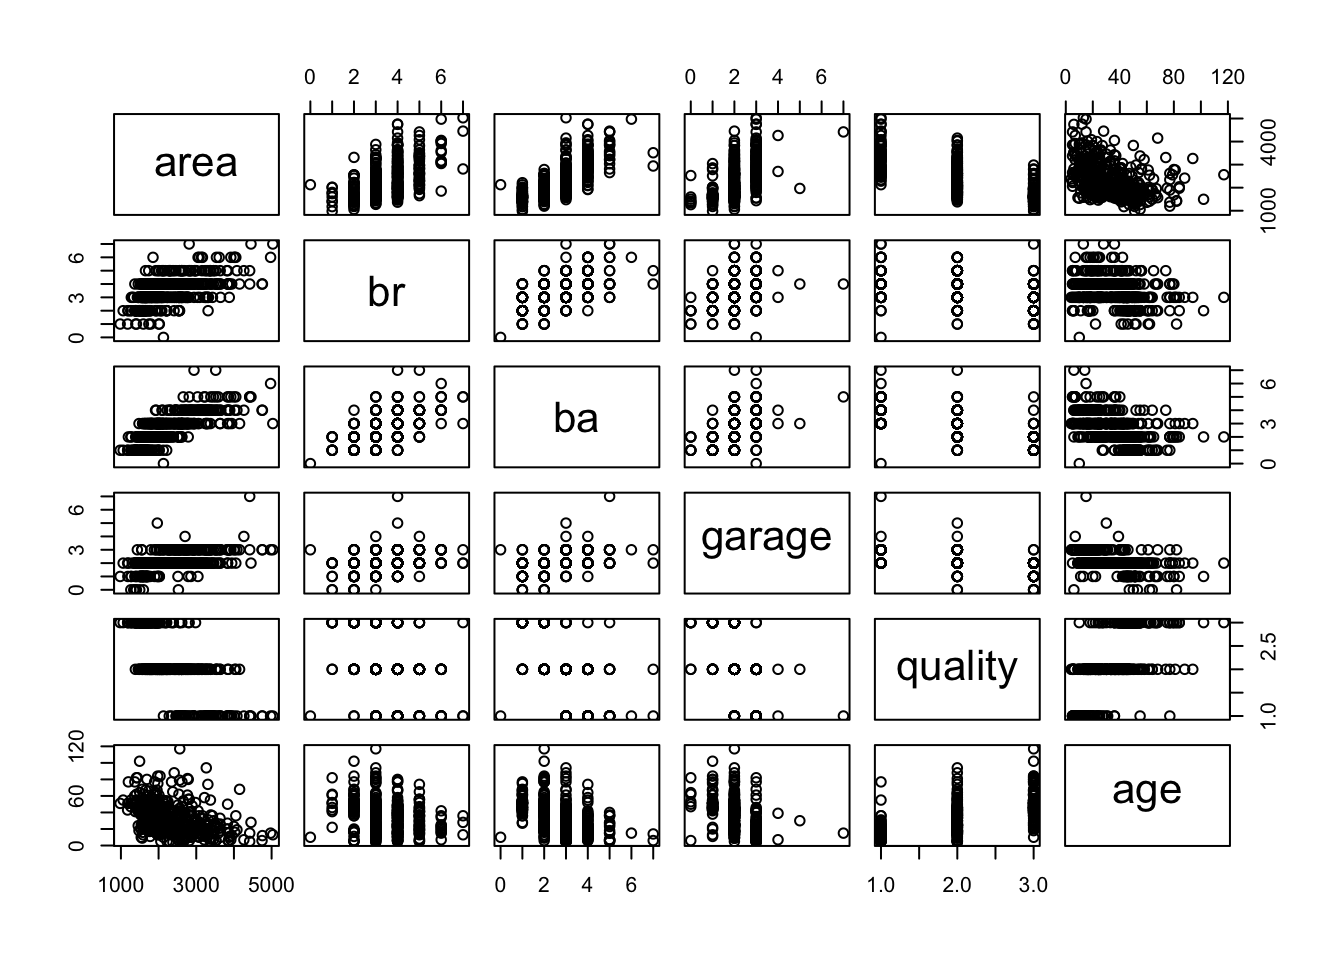
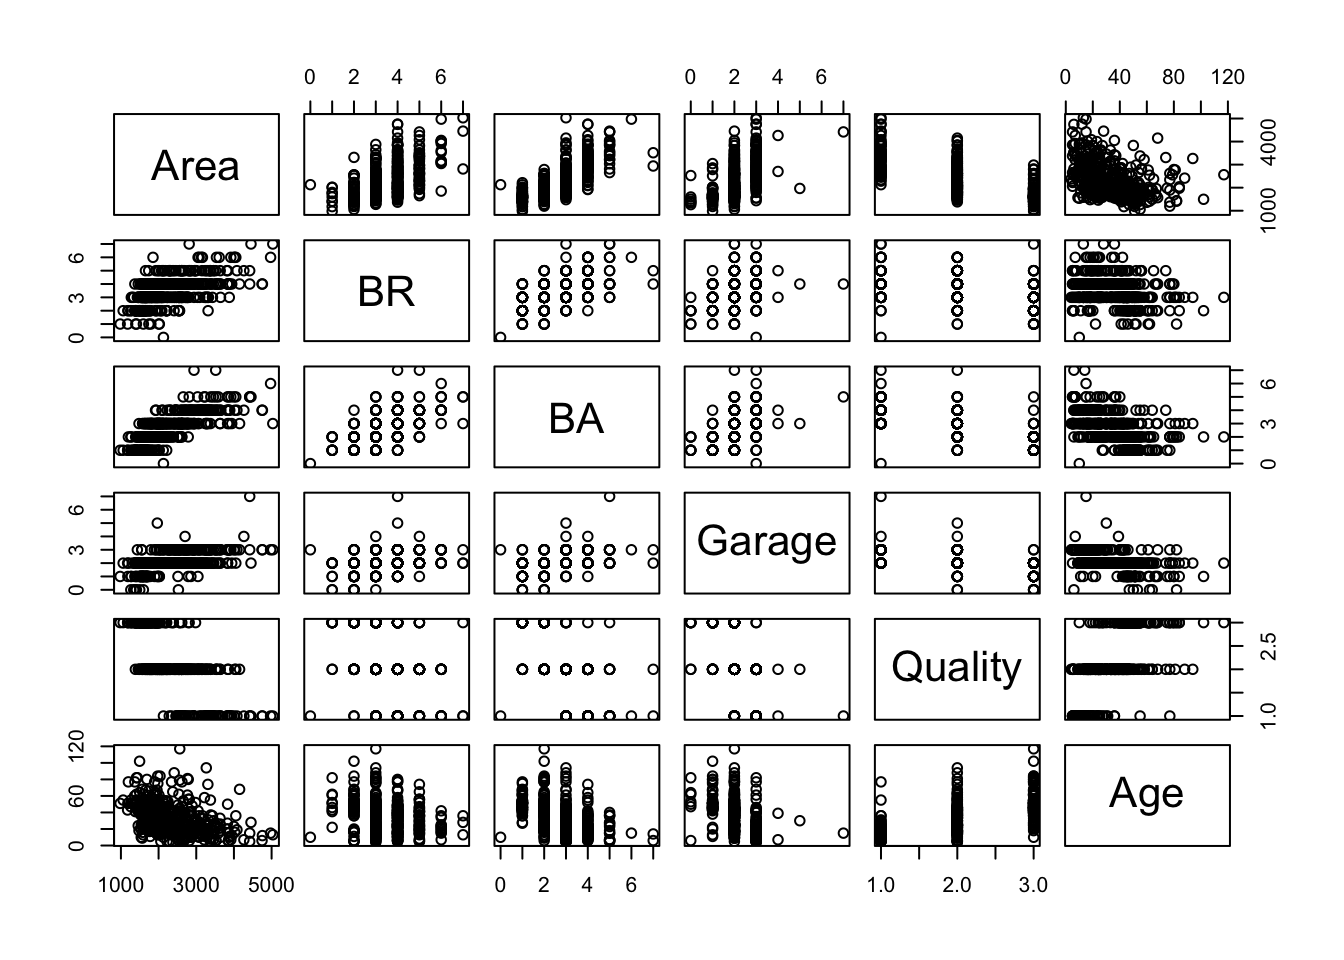
lots of progress on c2

diff --git a/part_c.html b/part_c.html
@@ -69,6 +69,8 @@ pre > code.sourceCode > span > a:first-child::before { text-decoration: underlin
 <link href="part_c_files/libs/bootstrap/bootstrap-icons.css" rel="stylesheet">
 <link href="part_c_files/libs/bootstrap/bootstrap.min.css" rel="stylesheet" id="quarto-bootstrap" data-mode="light">
 
+  <script src="https://polyfill.io/v3/polyfill.min.js?features=es6"></script>
+  <script src="https://cdn.jsdelivr.net/npm/mathjax@3/es5/tex-chtml-full.js" type="text/javascript"></script>
 
 </head>
 
@@ -102,21 +104,26 @@ pre > code.sourceCode > span > a:first-child::before { text-decoration: underlin
 </header>
 
 <div class="cell">
-<div class="sourceCode cell-code" id="cb1"><pre class="sourceCode r code-with-copy"><code class="sourceCode r"><span id="cb1-1"><a href="#cb1-1" aria-hidden="true" tabindex="-1"></a>cincy <span class="ot">&lt;-</span> <span class="fu">read_csv</span>(<span class="fu">here</span>(<span class="st">"data"</span>, <span class="st">"cincy.csv"</span>)) <span class="sc">|&gt;</span> <span class="fu">clean_names</span>()</span></code><button title="Copy to Clipboard" class="code-copy-button"><i class="bi"></i></button></pre></div>
+<div class="sourceCode cell-code" id="cb1"><pre class="sourceCode r code-with-copy"><code class="sourceCode r"><span id="cb1-1"><a href="#cb1-1" aria-hidden="true" tabindex="-1"></a><span class="co"># Echo TRUE for this whole file. The final document will be echo FALSE, then include code at the bottom (section E)</span></span>
+<span id="cb1-2"><a href="#cb1-2" aria-hidden="true" tabindex="-1"></a><span class="fu">library</span>(tidyverse)</span>
+<span id="cb1-3"><a href="#cb1-3" aria-hidden="true" tabindex="-1"></a><span class="fu">library</span>(here)</span>
+<span id="cb1-4"><a href="#cb1-4" aria-hidden="true" tabindex="-1"></a><span class="fu">library</span>(janitor)</span>
+<span id="cb1-5"><a href="#cb1-5" aria-hidden="true" tabindex="-1"></a><span class="fu">library</span>(knitr)</span>
+<span id="cb1-6"><a href="#cb1-6" aria-hidden="true" tabindex="-1"></a><span class="fu">source</span>(<span class="fu">here</span>(<span class="st">"all_custom_functions.R"</span>))</span></code><button title="Copy to Clipboard" class="code-copy-button"><i class="bi"></i></button></pre></div>
+</div>
+<div class="cell">
+<div class="sourceCode cell-code" id="cb2"><pre class="sourceCode r code-with-copy"><code class="sourceCode r"><span id="cb2-1"><a href="#cb2-1" aria-hidden="true" tabindex="-1"></a>cincy <span class="ot">&lt;-</span> <span class="fu">read_csv</span>(<span class="fu">here</span>(<span class="st">"data"</span>, <span class="st">"cincy.csv"</span>)) <span class="sc">|&gt;</span></span>
+<span id="cb2-2"><a href="#cb2-2" aria-hidden="true" tabindex="-1"></a>  <span class="fu">rename</span>(</span>
+<span id="cb2-3"><a href="#cb2-3" aria-hidden="true" tabindex="-1"></a>    <span class="at">Pricerank =</span> PRICERANK,</span>
+<span id="cb2-4"><a href="#cb2-4" aria-hidden="true" tabindex="-1"></a>    <span class="at">Age =</span> AGE</span>
+<span id="cb2-5"><a href="#cb2-5" aria-hidden="true" tabindex="-1"></a>  )</span></code><button title="Copy to Clipboard" class="code-copy-button"><i class="bi"></i></button></pre></div>
 </div>
 <section id="discriminant-and-classification-analysis" class="level2">
 <h2 class="anchored" data-anchor-id="discriminant-and-classification-analysis">Discriminant and Classification Analysis</h2>
 <section id="correlated-quantitative-variables" class="level3">
 <h3 class="anchored" data-anchor-id="correlated-quantitative-variables">Correlated Quantitative Variables</h3>
 <div class="cell">
-<div class="sourceCode cell-code" id="cb2"><pre class="sourceCode r code-with-copy"><code class="sourceCode r"><span id="cb2-1"><a href="#cb2-1" aria-hidden="true" tabindex="-1"></a><span class="fu">kable</span>(<span class="fu">cor</span>(cincy <span class="sc">|&gt;</span> <span class="fu">select</span>(<span class="sc">-</span>pricerank)),</span>
-<span id="cb2-2"><a href="#cb2-2" aria-hidden="true" tabindex="-1"></a>      <span class="at">col.names =</span> <span class="fu">c</span>(<span class="st">"Area"</span>,</span>
-<span id="cb2-3"><a href="#cb2-3" aria-hidden="true" tabindex="-1"></a>                    <span class="st">"Bedrooms"</span>,</span>
-<span id="cb2-4"><a href="#cb2-4" aria-hidden="true" tabindex="-1"></a>                    <span class="st">"Bathrooms"</span>,</span>
-<span id="cb2-5"><a href="#cb2-5" aria-hidden="true" tabindex="-1"></a>                    <span class="st">"Garage"</span>,</span>
-<span id="cb2-6"><a href="#cb2-6" aria-hidden="true" tabindex="-1"></a>                    <span class="st">"Quality"</span>,</span>
-<span id="cb2-7"><a href="#cb2-7" aria-hidden="true" tabindex="-1"></a>                    <span class="st">"Age"</span></span>
-<span id="cb2-8"><a href="#cb2-8" aria-hidden="true" tabindex="-1"></a>                    ))</span></code><button title="Copy to Clipboard" class="code-copy-button"><i class="bi"></i></button></pre></div>
+<div class="sourceCode cell-code" id="cb3"><pre class="sourceCode r code-with-copy"><code class="sourceCode r"><span id="cb3-1"><a href="#cb3-1" aria-hidden="true" tabindex="-1"></a><span class="fu">kable</span>(<span class="fu">cor</span>(cincy <span class="sc">|&gt;</span> <span class="fu">select</span>(<span class="sc">-</span>Pricerank)))</span></code><button title="Copy to Clipboard" class="code-copy-button"><i class="bi"></i></button></pre></div>
 <div class="cell-output-display">
 <table class="table table-sm table-striped small">
 <colgroup>
@@ -132,8 +139,8 @@ pre > code.sourceCode > span > a:first-child::before { text-decoration: underlin
 <tr class="header">
 <th style="text-align: left;"></th>
 <th style="text-align: right;">Area</th>
-<th style="text-align: right;">Bedrooms</th>
-<th style="text-align: right;">Bathrooms</th>
+<th style="text-align: right;">BR</th>
+<th style="text-align: right;">BA</th>
 <th style="text-align: right;">Garage</th>
 <th style="text-align: right;">Quality</th>
 <th style="text-align: right;">Age</th>
@@ -141,7 +148,7 @@ pre > code.sourceCode > span > a:first-child::before { text-decoration: underlin
 </thead>
 <tbody>
 <tr class="odd">
-<td style="text-align: left;">area</td>
+<td style="text-align: left;">Area</td>
 <td style="text-align: right;">1.0000000</td>
 <td style="text-align: right;">0.5578378</td>
 <td style="text-align: right;">0.7552729</td>
@@ -150,7 +157,7 @@ pre > code.sourceCode > span > a:first-child::before { text-decoration: underlin
 <td style="text-align: right;">-0.4411967</td>
 </tr>
 <tr class="even">
-<td style="text-align: left;">br</td>
+<td style="text-align: left;">BR</td>
 <td style="text-align: right;">0.5578378</td>
 <td style="text-align: right;">1.0000000</td>
 <td style="text-align: right;">0.5834469</td>
@@ -159,7 +166,7 @@ pre > code.sourceCode > span > a:first-child::before { text-decoration: underlin
 <td style="text-align: right;">-0.2686924</td>
 </tr>
 <tr class="odd">
-<td style="text-align: left;">ba</td>
+<td style="text-align: left;">BA</td>
 <td style="text-align: right;">0.7552729</td>
 <td style="text-align: right;">0.5834469</td>
 <td style="text-align: right;">1.0000000</td>
@@ -168,7 +175,7 @@ pre > code.sourceCode > span > a:first-child::before { text-decoration: underlin
 <td style="text-align: right;">-0.5128410</td>
 </tr>
 <tr class="even">
-<td style="text-align: left;">garage</td>
+<td style="text-align: left;">Garage</td>
 <td style="text-align: right;">0.5337665</td>
 <td style="text-align: right;">0.3168137</td>
 <td style="text-align: right;">0.4898981</td>
@@ -177,7 +184,7 @@ pre > code.sourceCode > span > a:first-child::before { text-decoration: underlin
 <td style="text-align: right;">-0.4617604</td>
 </tr>
 <tr class="odd">
-<td style="text-align: left;">quality</td>
+<td style="text-align: left;">Quality</td>
 <td style="text-align: right;">-0.6955529</td>
 <td style="text-align: right;">-0.3783218</td>
 <td style="text-align: right;">-0.6822149</td>
@@ -186,7 +193,7 @@ pre > code.sourceCode > span > a:first-child::before { text-decoration: underlin
 <td style="text-align: right;">0.6175260</td>
 </tr>
 <tr class="even">
-<td style="text-align: left;">age</td>
+<td style="text-align: left;">Age</td>
 <td style="text-align: right;">-0.4411967</td>
 <td style="text-align: right;">-0.2686924</td>
 <td style="text-align: right;">-0.5128410</td>
@@ -199,31 +206,19 @@ pre > code.sourceCode > span > a:first-child::before { text-decoration: underlin
 </div>
 </div>
 <div class="cell">
-<div class="sourceCode cell-code" id="cb3"><pre class="sourceCode r code-with-copy"><code class="sourceCode r"><span id="cb3-1"><a href="#cb3-1" aria-hidden="true" tabindex="-1"></a><span class="fu">plot</span>(cincy[,<span class="dv">2</span><span class="sc">:</span><span class="dv">7</span>])</span></code><button title="Copy to Clipboard" class="code-copy-button"><i class="bi"></i></button></pre></div>
+<div class="sourceCode cell-code" id="cb4"><pre class="sourceCode r code-with-copy"><code class="sourceCode r"><span id="cb4-1"><a href="#cb4-1" aria-hidden="true" tabindex="-1"></a><span class="fu">plot</span>(cincy[,<span class="dv">2</span><span class="sc">:</span><span class="dv">7</span>])</span></code><button title="Copy to Clipboard" class="code-copy-button"><i class="bi"></i></button></pre></div>
 <div class="cell-output-display">
 <p><img src="part_c_files/figure-html/unnamed-chunk-2-1.png" class="img-fluid" width="672"></p>
 </div>
 </div>
-<p>It appears that quality and area, along with bathroom and area have the highest correlations. These may be omitted from analysis.</p>
-<!-- Flagged by Jett. Above needs better justification and should also cite the correlations -->
+<p>We will consider correlations above |0.80| to be strong. Provided that no correlations exceed this threshold, we will proceed with all six variables.</p>
 </section>
 <section id="discriminant-analysis" class="level3">
 <h3 class="anchored" data-anchor-id="discriminant-analysis">Discriminant Analysis</h3>
 <div class="cell">
-<div class="sourceCode cell-code" id="cb4"><pre class="sourceCode r code-with-copy"><code class="sourceCode r"><span id="cb4-1"><a href="#cb4-1" aria-hidden="true" tabindex="-1"></a><span class="co"># First remove whatever variables had multicollinearity above</span></span>
-<span id="cb4-2"><a href="#cb4-2" aria-hidden="true" tabindex="-1"></a><span class="fu">discrim</span>(cincy[,<span class="sc">-</span><span class="dv">1</span>], cincy<span class="sc">$</span>pricerank)</span></code><button title="Copy to Clipboard" class="code-copy-button"><i class="bi"></i></button></pre></div>
+<div class="sourceCode cell-code" id="cb5"><pre class="sourceCode r code-with-copy"><code class="sourceCode r"><span id="cb5-1"><a href="#cb5-1" aria-hidden="true" tabindex="-1"></a><span class="fu">discrim</span>(cincy[,<span class="sc">-</span><span class="dv">1</span>], cincy<span class="sc">$</span>Pricerank)<span class="sc">$</span>a.stand</span></code><button title="Copy to Clipboard" class="code-copy-button"><i class="bi"></i></button></pre></div>
 <div class="cell-output cell-output-stdout">
-<pre><code>$a
-             [,1]         [,2]
-[1,]  0.001573498 -0.001218949
-[2,]  0.054759519  0.496380218
-[3,]  0.445335726  0.116049854
-[4,]  0.202372734 -0.018524554
-[5,] -0.870344316 -0.860100255
-[6,] -0.014868054  0.004692251
-
-$a.stand
-            [,1]        [,2]
+<pre><code>            [,1]        [,2]
 [1,]  0.70478207 -0.54597681
 [2,]  0.04815262  0.43649046
 [3,]  0.33024101  0.08605737
@@ -232,6 +227,140 @@ $a.stand
 [6,] -0.22310228  0.07040947</code></pre>
 </div>
 </div>
+<p><span class="math display">\[
+Z_1 = 0.705(y_1) + 0.048(y_2) + 0.330(y_3) + 0.113(y_4) - 0.390(y_5) - 0.223(y_6)
+\]</span></p>
+<p><span class="math display">\[
+Z_2 = -0.546(y_1) + 0.436(y_2) + 0.086(y_3) - 0.010(y_4) - 0.385(y_5) + 0.070(y_6)
+\]</span></p>
+<div class="cell">
+<div class="sourceCode cell-code" id="cb7"><pre class="sourceCode r code-with-copy"><code class="sourceCode r"><span id="cb7-1"><a href="#cb7-1" aria-hidden="true" tabindex="-1"></a><span class="fu">kable</span>(<span class="fu">data.frame</span>(<span class="at">Variable =</span> <span class="fu">c</span>(<span class="st">"y1"</span>, <span class="st">"y5"</span>, <span class="st">"y3"</span>, <span class="st">"y6"</span>, <span class="st">"y4"</span>, <span class="st">"y2"</span>),</span>
+<span id="cb7-2"><a href="#cb7-2" aria-hidden="true" tabindex="-1"></a>                 <span class="at">Z1 =</span> <span class="fu">c</span>(<span class="fl">0.70478207</span>,</span>
+<span id="cb7-3"><a href="#cb7-3" aria-hidden="true" tabindex="-1"></a>                        <span class="sc">-</span><span class="fl">0.38983060</span>,</span>
+<span id="cb7-4"><a href="#cb7-4" aria-hidden="true" tabindex="-1"></a>                        <span class="fl">0.33024101</span>,</span>
+<span id="cb7-5"><a href="#cb7-5" aria-hidden="true" tabindex="-1"></a>                        <span class="sc">-</span><span class="fl">0.22310228</span>,</span>
+<span id="cb7-6"><a href="#cb7-6" aria-hidden="true" tabindex="-1"></a>                        <span class="fl">0.11313689</span>,</span>
+<span id="cb7-7"><a href="#cb7-7" aria-hidden="true" tabindex="-1"></a>                        <span class="fl">0.04815262</span>)),</span>
+<span id="cb7-8"><a href="#cb7-8" aria-hidden="true" tabindex="-1"></a>      <span class="at">digits =</span> <span class="dv">3</span>,</span>
+<span id="cb7-9"><a href="#cb7-9" aria-hidden="true" tabindex="-1"></a>      <span class="at">col.names =</span> <span class="fu">c</span>(<span class="st">"Variable"</span>, <span class="st">"Z1"</span>))</span></code><button title="Copy to Clipboard" class="code-copy-button"><i class="bi"></i></button></pre></div>
+<div class="cell-output-display">
+<table class="table table-sm table-striped small">
+<thead>
+<tr class="header">
+<th style="text-align: left;">Variable</th>
+<th style="text-align: right;">Z1</th>
+</tr>
+</thead>
+<tbody>
+<tr class="odd">
+<td style="text-align: left;">y1</td>
+<td style="text-align: right;">0.705</td>
+</tr>
+<tr class="even">
+<td style="text-align: left;">y5</td>
+<td style="text-align: right;">-0.390</td>
+</tr>
+<tr class="odd">
+<td style="text-align: left;">y3</td>
+<td style="text-align: right;">0.330</td>
+</tr>
+<tr class="even">
+<td style="text-align: left;">y6</td>
+<td style="text-align: right;">-0.223</td>
+</tr>
+<tr class="odd">
+<td style="text-align: left;">y4</td>
+<td style="text-align: right;">0.113</td>
+</tr>
+<tr class="even">
+<td style="text-align: left;">y2</td>
+<td style="text-align: right;">0.048</td>
+</tr>
+</tbody>
+</table>
+</div>
+<div class="sourceCode cell-code" id="cb8"><pre class="sourceCode r code-with-copy"><code class="sourceCode r"><span id="cb8-1"><a href="#cb8-1" aria-hidden="true" tabindex="-1"></a><span class="fu">kable</span>(<span class="fu">data.frame</span>(<span class="at">Variable =</span> <span class="fu">c</span>(<span class="st">"y1"</span>, <span class="st">"y2"</span>, <span class="st">"y5"</span>, <span class="st">"y3"</span>, <span class="st">"y6"</span>, <span class="st">"y4"</span>),</span>
+<span id="cb8-2"><a href="#cb8-2" aria-hidden="true" tabindex="-1"></a>                 <span class="at">Z2 =</span> <span class="fu">c</span>(<span class="sc">-</span><span class="fl">0.54597681</span>,</span>
+<span id="cb8-3"><a href="#cb8-3" aria-hidden="true" tabindex="-1"></a>                        <span class="fl">0.43649046</span>,</span>
+<span id="cb8-4"><a href="#cb8-4" aria-hidden="true" tabindex="-1"></a>                        <span class="sc">-</span><span class="fl">0.38524224</span>,</span>
+<span id="cb8-5"><a href="#cb8-5" aria-hidden="true" tabindex="-1"></a>                        <span class="fl">0.08065737</span>,</span>
+<span id="cb8-6"><a href="#cb8-6" aria-hidden="true" tabindex="-1"></a>                        <span class="fl">0.07040947</span>,</span>
+<span id="cb8-7"><a href="#cb8-7" aria-hidden="true" tabindex="-1"></a>                        <span class="sc">-</span><span class="fl">0.01035619</span>)),</span>
+<span id="cb8-8"><a href="#cb8-8" aria-hidden="true" tabindex="-1"></a>      <span class="at">digits =</span> <span class="dv">3</span>,</span>
+<span id="cb8-9"><a href="#cb8-9" aria-hidden="true" tabindex="-1"></a>      <span class="at">col.names =</span> <span class="fu">c</span>(<span class="st">"Variable"</span>, <span class="st">"Z2"</span>))</span></code><button title="Copy to Clipboard" class="code-copy-button"><i class="bi"></i></button></pre></div>
+<div class="cell-output-display">
+<table class="table table-sm table-striped small">
+<thead>
+<tr class="header">
+<th style="text-align: left;">Variable</th>
+<th style="text-align: right;">Z2</th>
+</tr>
+</thead>
+<tbody>
+<tr class="odd">
+<td style="text-align: left;">y1</td>
+<td style="text-align: right;">-0.546</td>
+</tr>
+<tr class="even">
+<td style="text-align: left;">y2</td>
+<td style="text-align: right;">0.436</td>
+</tr>
+<tr class="odd">
+<td style="text-align: left;">y5</td>
+<td style="text-align: right;">-0.385</td>
+</tr>
+<tr class="even">
+<td style="text-align: left;">y3</td>
+<td style="text-align: right;">0.081</td>
+</tr>
+<tr class="odd">
+<td style="text-align: left;">y6</td>
+<td style="text-align: right;">0.070</td>
+</tr>
+<tr class="even">
+<td style="text-align: left;">y4</td>
+<td style="text-align: right;">-0.010</td>
+</tr>
+</tbody>
+</table>
+</div>
+</div>
+<p>The standardized coefficients are ranked above according to their variable contributions to group separation in the presence of all other variables.</p>
+<p>H0: <span class="math inline">\(\pmb{\alpha_1} = \pmb{\alpha_2} = \pmb{0}\)</span></p>
+<p>HA: At least one <span class="math inline">\(\pmb{\alpha_i} \neq \pmb{0}\)</span> for i = 1, 2</p>
+<div class="cell">
+<div class="sourceCode cell-code" id="cb9"><pre class="sourceCode r code-with-copy"><code class="sourceCode r"><span id="cb9-1"><a href="#cb9-1" aria-hidden="true" tabindex="-1"></a>test <span class="ot">&lt;-</span> <span class="fu">discr.sig</span>(cincy[,<span class="sc">-</span><span class="dv">1</span>], cincy<span class="sc">$</span>Pricerank)</span>
+<span id="cb9-2"><a href="#cb9-2" aria-hidden="true" tabindex="-1"></a><span class="fu">kable</span>(test, <span class="at">digits =</span> <span class="dv">3</span>, <span class="at">col.names =</span> <span class="fu">c</span>(<span class="st">"Lambda"</span>,</span>
+<span id="cb9-3"><a href="#cb9-3" aria-hidden="true" tabindex="-1"></a>                                      <span class="st">"V"</span>,</span>
+<span id="cb9-4"><a href="#cb9-4" aria-hidden="true" tabindex="-1"></a>                                      <span class="st">"P-Values"</span>))</span></code><button title="Copy to Clipboard" class="code-copy-button"><i class="bi"></i></button></pre></div>
+<div class="cell-output-display">
+<table class="table table-sm table-striped small">
+<thead>
+<tr class="header">
+<th style="text-align: left;"></th>
+<th style="text-align: right;">Lambda</th>
+<th style="text-align: right;">V</th>
+<th style="text-align: right;">P-Values</th>
+</tr>
+</thead>
+<tbody>
+<tr class="odd">
+<td style="text-align: left;">LD1</td>
+<td style="text-align: right;">0.279</td>
+<td style="text-align: right;">658.852</td>
+<td style="text-align: right;">0</td>
+</tr>
+<tr class="even">
+<td style="text-align: left;">LD2</td>
+<td style="text-align: right;">0.874</td>
+<td style="text-align: right;">69.690</td>
+<td style="text-align: right;">0</td>
+</tr>
+</tbody>
+</table>
+</div>
+</div>
+<!--I might be getting these hypotheses mixed up with the wrong kind of test. Let's double check together on 6/5 in class. -JP-->
 </section>
 <section id="classification-analysis" class="level3">
 <h3 class="anchored" data-anchor-id="classification-analysis">Classification Analysis</h3>
